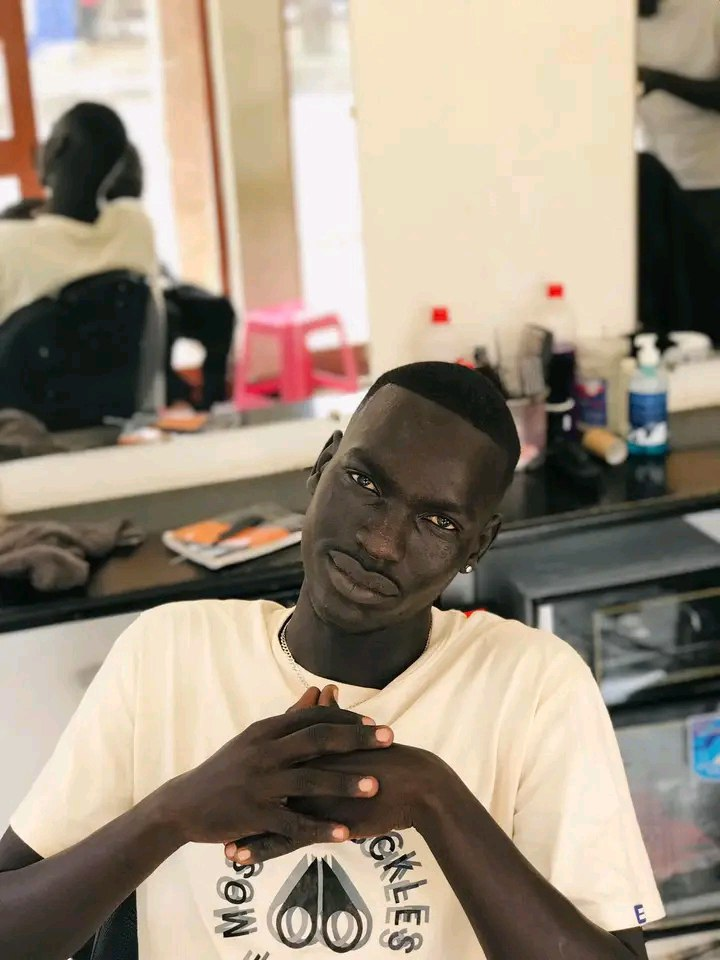
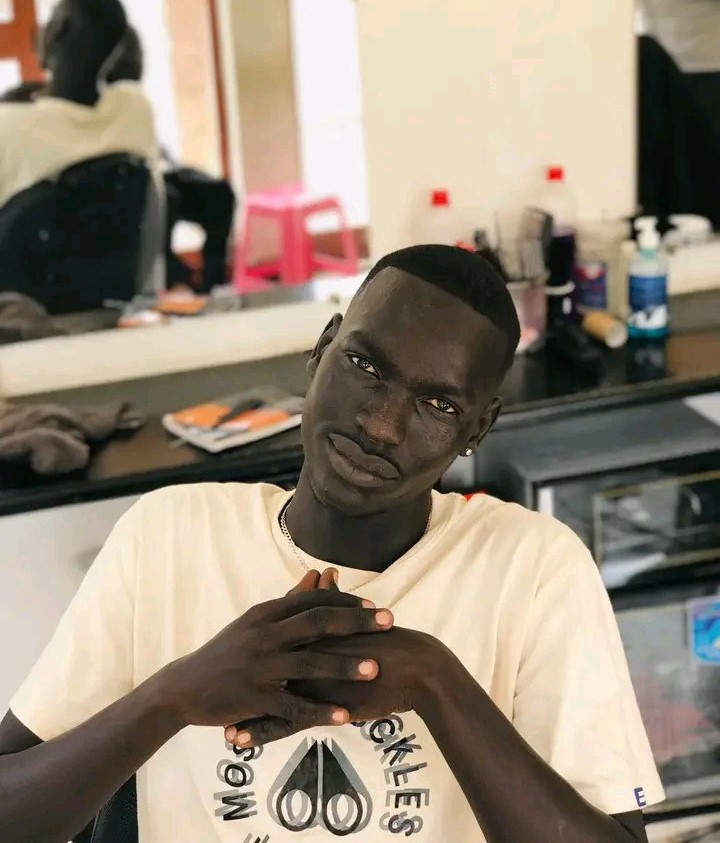
fixed email

diff --git a/script.js b/script.js
@@ -1,7 +1,7 @@
 const header = document.querySelector('.header');
 let lastScrollTop = 0;
-const templateId = 'template_trq93t4';
-const serviceId = 'service_zx29ihn';
+const templateId = 'template_2qsl1j5';
+const serviceId = 'service_16pyqn6';
 
 window.addEventListener('scroll', () => {
   const currentScrollTop = window.scrollY;
@@ -164,40 +164,106 @@ function sendEmail(event){
 
 
    
-function sendEmail2(event){
-  event.preventDefault();
-console.log("it's working")
+// function sendEmail2(event){
+//   event.preventDefault();
+// console.log("it's working")
 
-let email = document.getElementById('email2').value;
+// let email = document.getElementById('email2').value;
 
 
-  const paramsObj = {
-    username: "",
-    email:email,
-    message: "a subscription email " + email,
-    subject: "",  
-    phone: ""
-  };
-  console.log(email);
+//   const paramsObj = {
+//     username: "",
+//     email:email,
+//     message: "a subscription email " + email,
+//     subject: "",  
+//     phone: ""
+//   };
+//   console.log(email);
 
-  emailjs.send(serviceId, templateId, paramsObj)
-    .then((response)=>{ 
+//   emailjs.send(serviceId, templateId, paramsObj)
+//     .then((response)=>{ 
 
-    document.getElementById('email2').value = "";
+//     document.getElementById('email2').value = "";
 
   
-      alert("Email sent")
-      console.log(response)
+//       alert("Email sent")
+//       console.log(response)
     
 
 
-    })
-    .catch((error)=>{
-      console.log(error)
-      alert("Couldn't send email check your Network connection ")
-    })
+//     })
+//     .catch((error)=>{
+//       console.log(error)
+//       alert("Couldn't send email check your Network connection ")
+//     })
 
   
-}
+// }
 
   
+
+// function sendEmail(){
+//   Email.send({
+//       Host : "smtp.gmail.com",
+//       Username : "oriemiobango@gmail.com",
+//       Password : "B553B4522846E7A8CA37C1EAB0267853F31D",
+//       To : 'oriemiobango@gmail.com',
+//       From : document.getElementById('email').value,
+//       Subject : 'new',
+//       phone: 'ffdfd',
+//       Body : "And this is the body"
+// }).then(
+//   message => alert(message)
+// );
+// }
+//B553B4522846E7A8CA37C1EAB0267853F31D
+
+// const btn = document.getElementById('button');
+
+// document.getElementById('form')
+//  .addEventListener('submit', function(event) {
+//    event.preventDefault();
+
+//    const formData = new FormData(event.target);
+//      const paramsObj = {
+//        username: formData.get('username'),
+//        email:formData.get('email'),
+//        message: formData.get('message'),
+//        subject: formData.get('subject'), 
+//        phone: formData.get('phone')
+//      };
+
+//    btn.value = 'Sending...';
+
+//    const serviceID = 'service_16pyqn6';
+//    const templateID = 'template_2qsl1j5';
+
+//    emailjs.sendForm(serviceID, templateID, paramsObj)
+//     .then((response) => {
+//       btn.value = 'Send Email';
+//       alert('Sent!');
+//     }, (err) => {
+//       alert("Email sent successfully")
+//       alert(JSON.stringify(err));
+//     });
+// });
+
+
+// emailjs.send(serviceId, templateId, paramsObj)
+//     .then((response)=>{ 
+//     document.getElementById('username').value = "";
+//     document.getElementById('email').value = "";
+//     document.getElementById('message').value = "";
+//     document.getElementById('subject').value = "";
+//     document.getElementById('phone').value = "";
+  
+//       alert("Email sent")
+//       console.log(response)
+    
+
+
+//     })
+//     .catch((error)=>{
+//       console.log(error)
+//       alert("Couldn't send email check your Network connection ")
+//     })

diff --git a/index.html b/index.html
@@ -24,13 +24,11 @@
 <link rel="icon" href="assets/oriemi_pic.png" type="image/x-icon">
     <title>Oriemi Obang</title>
     <script type="text/javascript"
-        src="https://cdn.jsdelivr.net/npm/@emailjs/browser@3/dist/email.min.js">
-</script>
-<script type="text/javascript">
-   (function(){
-      emailjs.init("9ltGQOMzE78qnrrhZ");
-   })();
-</script>
+    src="https://cdn.jsdelivr.net/npm/@emailjs/browser@4/dist/email.min.js"></script>
+  
+  <script type="text/javascript">
+    emailjs.init('Rlp-utlbJ7t9SebJ_')
+  </script>
 </head>
 <body>
     <header class="header">
@@ -136,7 +134,7 @@
                    
                    <a href="https://dha-anywaa-app.netlify.app/" target="_blank">
                     <div class="pic third">
-                        <img src="assets/mobile_app.jpg" alt="image-3">
+                        <img src="assets/dha_anywaa_app.jpg" alt="image-3">
                         <p>Dha-Anywaa - This is an app that help people who are interested in learning reading in anywaa language.</p>
                         <!-- <div class="project_icons">
                             <a href="#"><img src="assets/github_icon.png" alt="github_icon"></a>

diff --git a/style.css b/style.css
@@ -312,8 +312,9 @@ header ul .contact{
 
 
 .workImage img{
-    width: 90%;
-    height: auto;
+    height: 350px;
+    width: 95%;
+    /* height: auto; */
 }
 
 .pic p{
